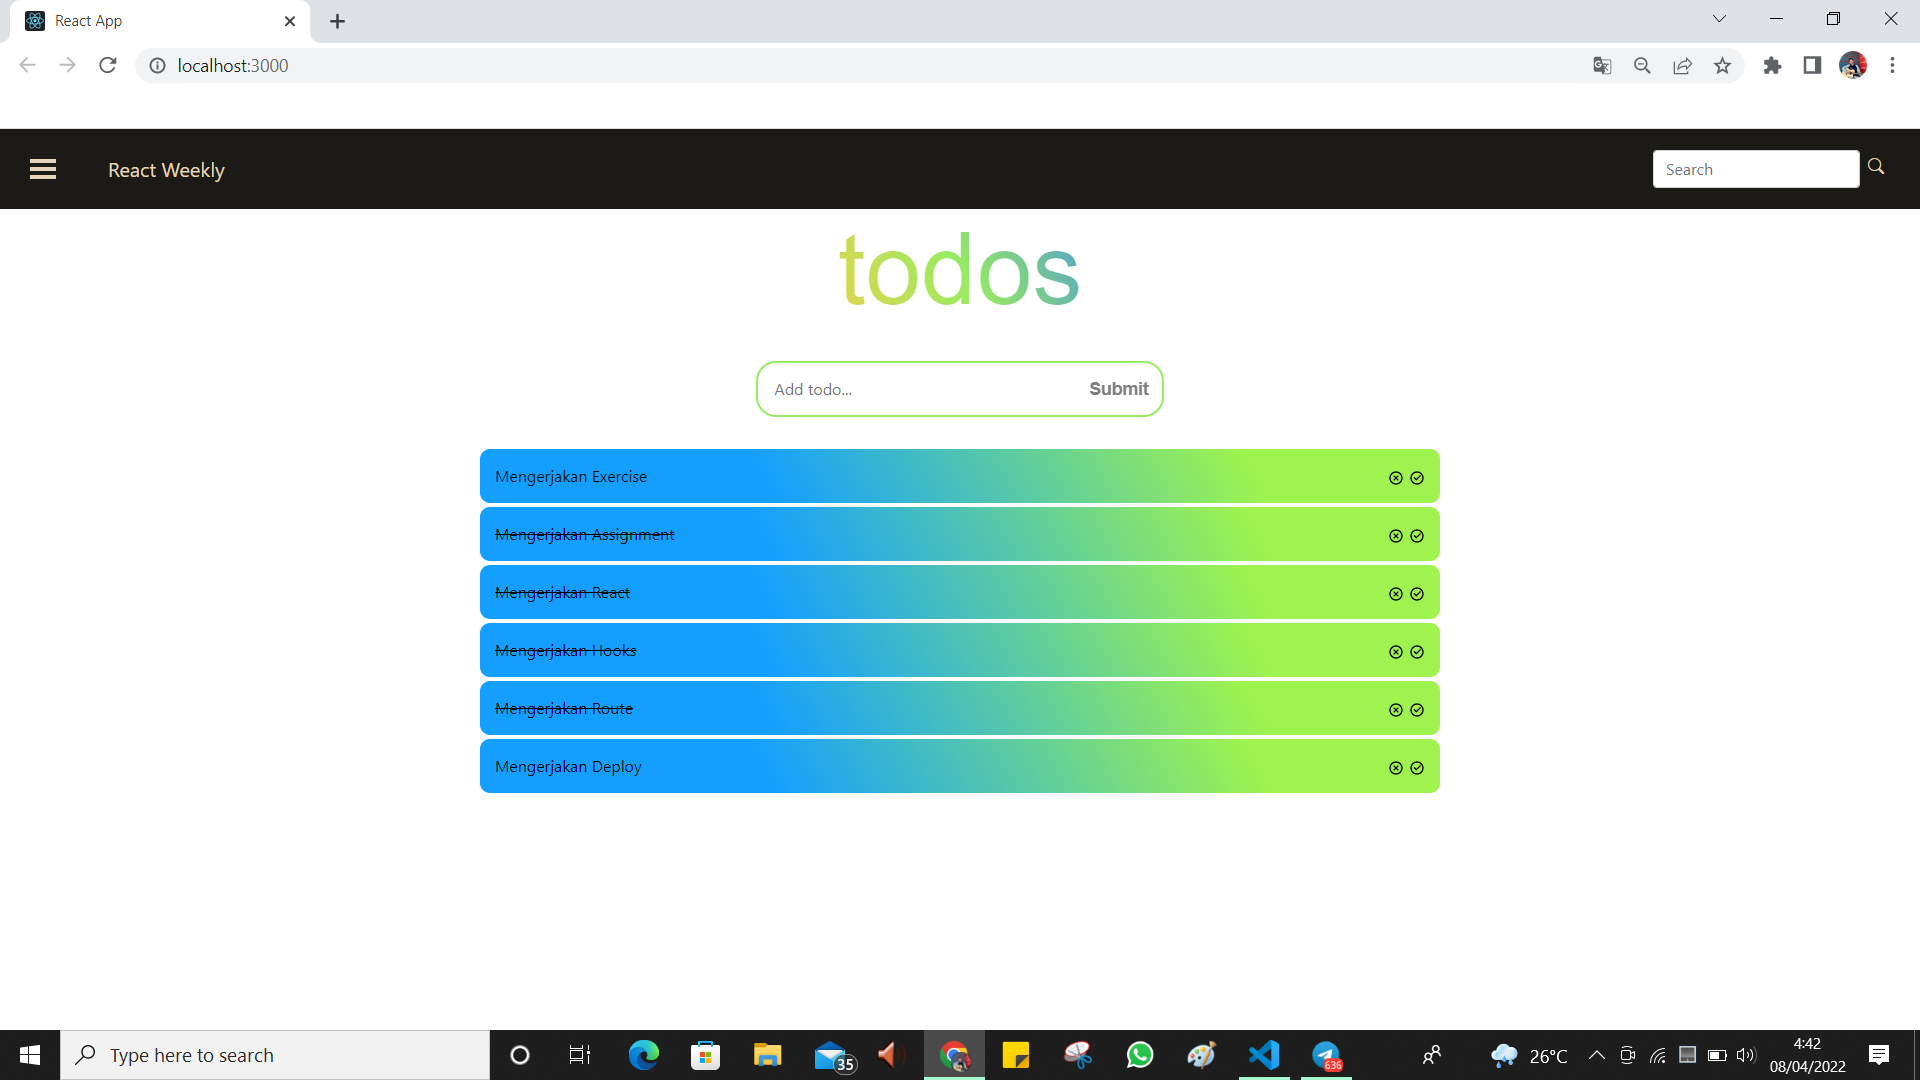
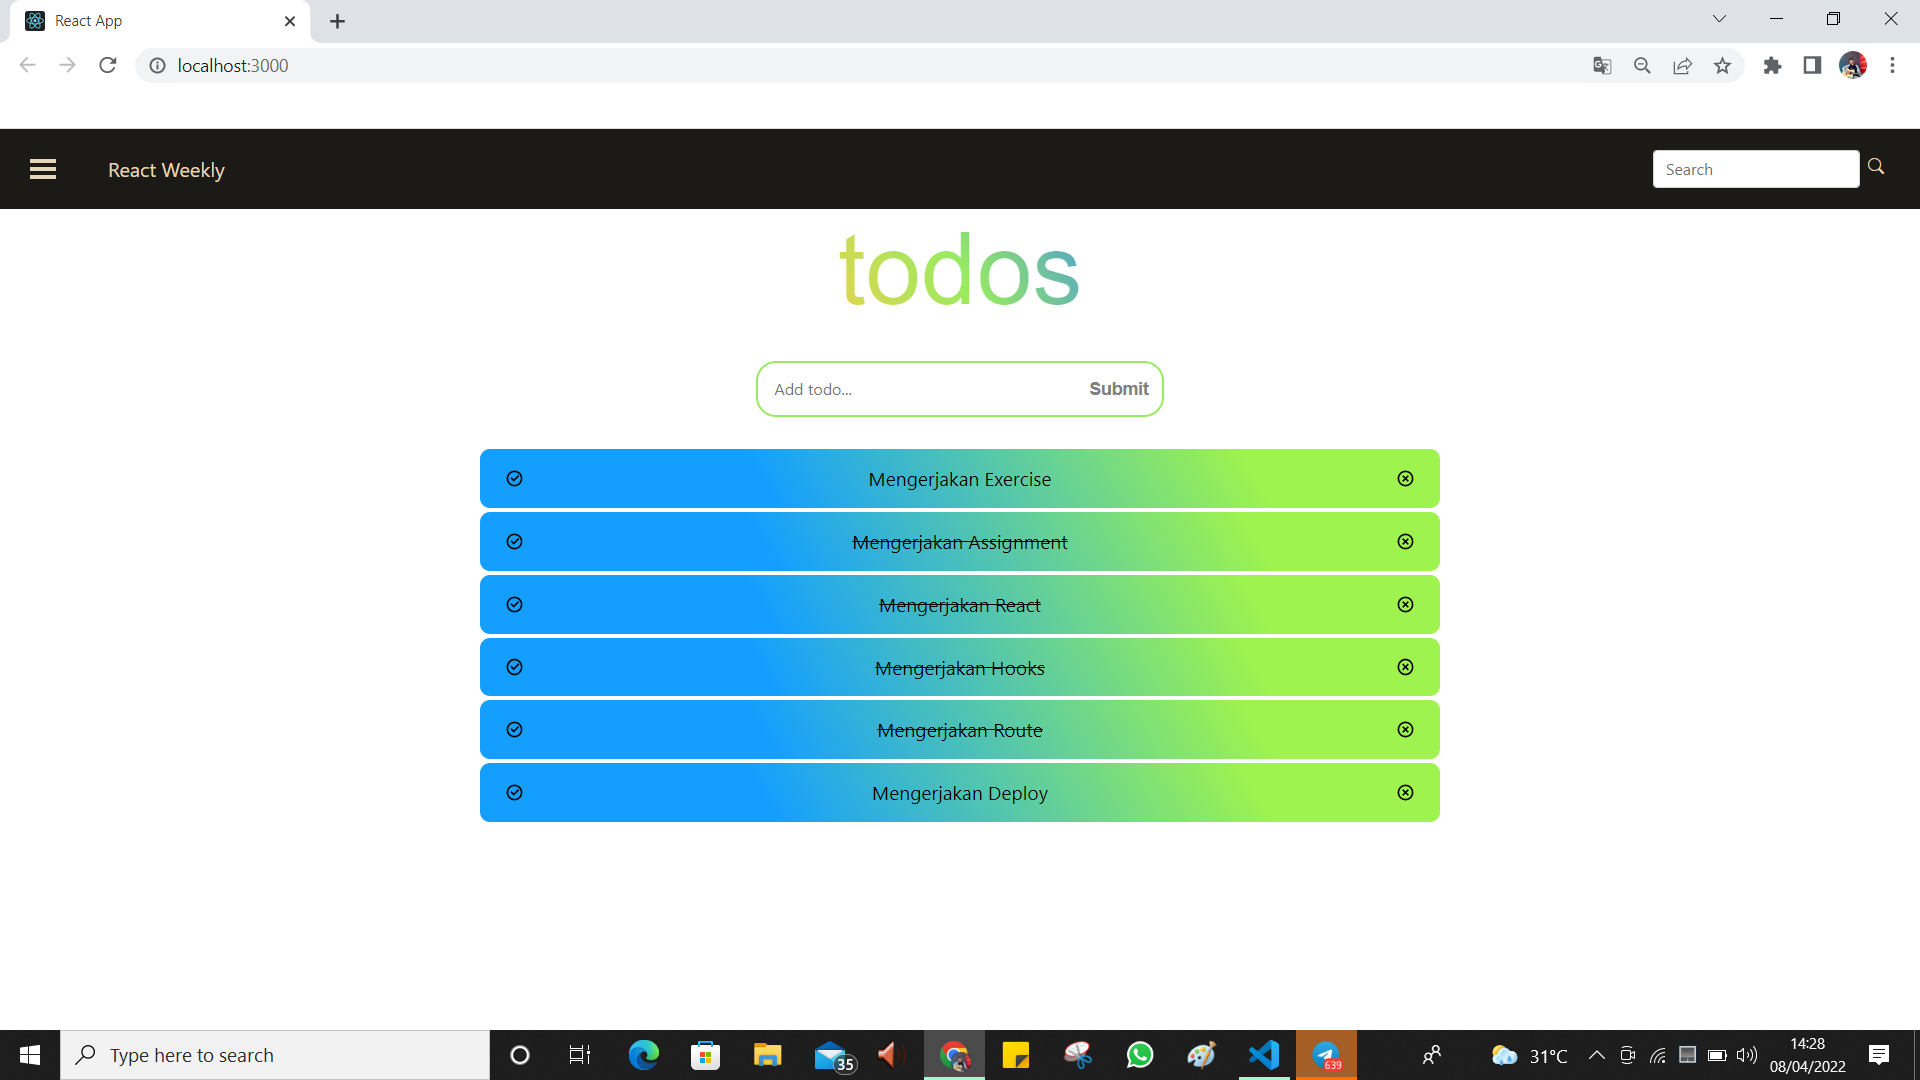
update css global state

Changed region(s): [[0.25, 0.4278, 0.75, 0.7639], [0.6562, 0.9472, 0.7188, 1.0], [0.7812, 0.9778, 0.8125, 1.0]]

diff --git a/16_Global_State_Management_and_Data_fetching/Praktikum/src/pages/GlobalState/components/TodoList.jsx b/16_Global_State_Management_and_Data_fetching/Praktikum/src/pages/GlobalState/components/TodoList.jsx
@@ -13,18 +13,17 @@ const TodoList = () => {
         <>
             {passengers.map((todo) => (
                 <div className={todo.completed ? "todoList complete" : "todoList"}>
-                    {todo.title}
-                    <div className="iconsContainer">
-                    <RiCloseCircleLine 
-                    style={{marginRight : 5}} 
-                    onClick={() => {
-                        dispatch(removeTodo(todo.id));
-                    }}/>
-                    <RiCheckboxCircleLine 
+                    <RiCheckboxCircleLine
+                    style={{marginLeft : 10}}  
                     onClick={() => {
                         dispatch(completedTodo(todo.id));
                     }}/>
-                    </div>
+                    {todo.title}
+                    <RiCloseCircleLine 
+                    style={{marginRight : 10}} 
+                    onClick={() => {
+                        dispatch(removeTodo(todo.id));
+                    }}/>
                 </div>
                 ))}
         </>

diff --git a/react_weekly/src/pages/GlobalState/components/TodoList.jsx b/react_weekly/src/pages/GlobalState/components/TodoList.jsx
@@ -13,18 +13,17 @@ const TodoList = () => {
         <>
             {passengers.map((todo) => (
                 <div className={todo.completed ? "todoList complete" : "todoList"}>
-                    {todo.title}
-                    <div className="iconsContainer">
-                    <RiCloseCircleLine 
-                    style={{marginRight : 5}} 
-                    onClick={() => {
-                        dispatch(removeTodo(todo.id));
-                    }}/>
-                    <RiCheckboxCircleLine 
+                    <RiCheckboxCircleLine
+                    style={{marginLeft : 10}}  
                     onClick={() => {
                         dispatch(completedTodo(todo.id));
                     }}/>
-                    </div>
+                    {todo.title}
+                    <RiCloseCircleLine 
+                    style={{marginRight : 10}} 
+                    onClick={() => {
+                        dispatch(removeTodo(todo.id));
+                    }}/>
                 </div>
                 ))}
         </>

diff --git a/16_Global_State_Management_and_Data_fetching/Praktikum/src/pages/GlobalState/components/Todos.css b/16_Global_State_Management_and_Data_fetching/Praktikum/src/pages/GlobalState/components/Todos.css
@@ -15,11 +15,6 @@ form {
     text-decoration: line-through;
 }
 
-.listItem{
-    color: red;
-    border-bottom: 5px;
-}
-
 .todoForm {
     margin: 2rem;
     text-align: center;
@@ -61,5 +56,7 @@ form {
     padding: 15px;
     border-radius: 10px;
     width: 50%;
+    font-size: larger;
+    text-align: center;
 }
 

diff --git a/react_weekly/src/pages/GlobalState/components/Todos.css b/react_weekly/src/pages/GlobalState/components/Todos.css
@@ -15,11 +15,6 @@ form {
     text-decoration: line-through;
 }
 
-.listItem{
-    color: red;
-    border-bottom: 5px;
-}
-
 .todoForm {
     margin: 2rem;
     text-align: center;
@@ -61,5 +56,7 @@ form {
     padding: 15px;
     border-radius: 10px;
     width: 50%;
+    font-size: larger;
+    text-align: center;
 }
 
